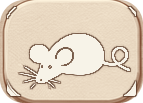
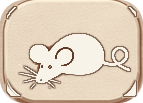
fix: distinguish beast dog and cat pieces

diff --git a/tests/ui.test.ts b/tests/ui.test.ts
@@ -255,7 +255,7 @@ test('settings keep music and effect switches and volumes independently on this 
   let wrapper = setup(t, false);
   await wrapper.findAll('button').find(b => b.text() === '设置')!.trigger('click');
   assert.equal(wrapper.get('#music-toggle').text(), '关闭');
-  assert.equal(wrapper.get('#effects-toggle').text(), '关闭');
+  assert.equal(wrapper.get('#effects-toggle').text(), '开启');
   assert.equal(wrapper.get('#music-preview').text(), '试听');
   assert.equal(wrapper.get('#music-theme').text(), '流觞曲水');
   assert.equal(wrapper.find('#music-playlist').exists(), false);
@@ -264,14 +264,14 @@ test('settings keep music and effect switches and volumes independently on this 
   await wrapper.get('#effects-volume').setValue('0.42');
   await wrapper.get('#music-volume').setValue('0.18');
   let saved = JSON.parse(localStorage.getItem('three-kingdoms-chess:audio-v1')!);
-  assert.equal(saved.effectsEnabled, true);
+  assert.equal(saved.effectsEnabled, false);
   assert.equal(saved.musicEnabled, false);
   assert.equal(saved.effectsVolume, 0.42);
   assert.equal(saved.musicVolume, 0.18);
   assert.equal(saved.musicPlaylistId, 'default');
   assert.equal(saved.musicTrackId, 'liushang-qushui');
   wrapper = remount(t, wrapper);
-  assert.equal(wrapper.get('#effects-toggle').text(), '开启');
+  assert.equal(wrapper.get('#effects-toggle').text(), '关闭');
   assert.equal(wrapper.get('#music-toggle').text(), '关闭');
   assert.equal((wrapper.get('#effects-volume').element as HTMLInputElement).value, '0.42');
   assert.equal(wrapper.get('#music-theme').text(), '流觞曲水');

diff --git a/tests/audio.test.ts b/tests/audio.test.ts
@@ -27,7 +27,12 @@ test('sound settings default to effects on, persist independent levels and rejec
     localStorage.setItem(AUDIO_SETTINGS_KEY, JSON.stringify({ musicPlaylistId: 'classical', musicTrackId: 'removed-song' }));
     assert.equal(loadAudioSettings().musicTrackId, 'liushang-qushui');
     localStorage.setItem(AUDIO_SETTINGS_KEY, JSON.stringify({ musicPlaylistId: 'guitar', musicTrackId: 'lebang-zhanshi-guitar' }));
-    assert.deepEqual(loadAudioSettings(), { ...DEFAULT_AUDIO_SETTINGS, musicEnabled: false, musicVolume: 0.35 });
+    assert.deepEqual(loadAudioSettings(), {
+      ...DEFAULT_AUDIO_SETTINGS,
+      musicEnabled: false,
+      musicVolume: 0.35,
+      effectsEnabled: false,
+    });
   } finally { GlobalRegistrator.unregister(); }
 });
 

diff --git a/tests/beast-chess-ui.test.ts b/tests/beast-chess-ui.test.ts
@@ -82,7 +82,7 @@ test('Beast Chess joins one table by seat, starts after both ready, moves in syn
   assert.equal(lower.findAll('.beast-cell')[0].attributes('data-coordinate'), 'A9');
   assert.match(upper.get('.beast-board-grid').attributes('aria-label') ?? '', /上方玩家视角/);
   assert.equal(upper.findAll('.beast-piece img').every(image =>
-    (image.attributes('src') ?? '').includes('?v=animal-colors-v3')), true);
+    (image.attributes('src') ?? '').includes('?v=animal-colors-v4')), true);
 
   const readyUpper = upper.findAll('button').find(button => button.text() === '准备');
   assert.ok(readyUpper);

diff --git a/src/components/BeastChessPiece.vue b/src/components/BeastChessPiece.vue
@@ -13,7 +13,7 @@ const props = defineProps<{
 
 const failed = ref(false);
 const imageSource = computed(() =>
-  `images/beast-chess/pieces/${props.piece.side}-${props.piece.kind}.png?v=animal-colors-v3`);
+  `images/beast-chess/pieces/${props.piece.side}-${props.piece.kind}.png?v=animal-colors-v4`);
 const label = computed(() => `${BEAST_SIDE_NAMES[props.piece.side]}${BEAST_KIND_NAMES[props.piece.kind]}`);
 </script>
 

diff --git a/scripts/prepare-beast-chess-assets.py b/scripts/prepare-beast-chess-assets.py
@@ -74,6 +74,8 @@ BASE_COLORS = {
     "upper": ("#36150b", "#edc982"),
 }
 
+ANIMAL_OUTLINE = "#4b2c1c"
+
 
 def cell_box(x: int, y: int) -> tuple[int, int, int, int]:
     image_row = 8 - y
@@ -107,17 +109,9 @@ def smoothstep(value: float, low: float, high: float) -> float:
     return progress * progress * (3 - 2 * progress)
 
 
-def colorize_animal(piece: Image.Image, side: str, kind: str) -> Image.Image:
-    """Tint the animal silhouette while preserving the supplied wooden base."""
+def animal_mask(piece: Image.Image, side: str) -> Image.Image:
     rgb = piece.convert("RGB")
     alpha = piece.getchannel("A")
-    grayscale = rgb.convert("L")
-    base_dark, base_light = BASE_COLORS[side]
-    base = ImageOps.colorize(grayscale, black=base_dark, white=base_light).convert("RGBA")
-    base.putalpha(alpha)
-    tinted = Image.new("RGBA", piece.size, KIND_COLORS[kind])
-    tinted.putalpha(alpha)
-
     width, height = piece.size
     inset_x = max(7, round(width * 0.05))
     inset_y = max(7, round(height * 0.07))
@@ -140,6 +134,110 @@ def colorize_animal(piece: Image.Image, side: str, kind: str) -> Image.Image:
                 weight = smoothstep(luminance, 145, 205)
             if weight:
                 mask_pixels[x, y] = round(weight * alpha_pixels[x, y])
+    return mask
+
+
+def colored_base(piece: Image.Image, side: str, mask: Image.Image) -> Image.Image:
+    """Remove the source animal and rebuild the piece's side-specific base."""
+    source = piece.copy()
+    replacement = source.filter(ImageFilter.MedianFilter(31))
+    source.paste(replacement, mask=mask.filter(ImageFilter.MaxFilter(5)))
+    alpha = source.getchannel("A")
+    grayscale = source.convert("L")
+    base_dark, base_light = BASE_COLORS[side]
+    base = ImageOps.colorize(grayscale, black=base_dark, white=base_light).convert("RGBA")
+    base.putalpha(alpha)
+    return base
+
+
+def draw_dog_icon(size: tuple[int, int], color: str) -> Image.Image:
+    scale = 4
+    canvas = Image.new("RGBA", (size[0] * scale, size[1] * scale), (0, 0, 0, 0))
+    draw = ImageDraw.Draw(canvas)
+    width = 2 * scale
+
+    def point(x: float, y: float) -> tuple[int, int]:
+        return round(x * scale), round(y * scale)
+
+    def box(left: float, top: float, right: float, bottom: float) -> tuple[int, int, int, int]:
+        return round(left * scale), round(top * scale), round(right * scale), round(bottom * scale)
+
+    def line(points: list[tuple[float, float]], fill: str, stroke: int) -> None:
+        pixels = [point(x, y) for x, y in points]
+        draw.line(pixels, fill=ANIMAL_OUTLINE, width=(stroke + 4) * scale, joint="curve")
+        draw.line(pixels, fill=fill, width=stroke * scale, joint="curve")
+
+    # Upturned tail, rounded body, floppy ear and short muzzle distinguish a dog.
+    line([(108, 49), (121, 43), (128, 30), (125, 20)], color, 7)
+    draw.ellipse(box(35, 37, 115, 72), fill=color, outline=ANIMAL_OUTLINE, width=width)
+    draw.ellipse(box(29, 26, 48, 55), fill=color, outline=ANIMAL_OUTLINE, width=width)
+    draw.ellipse(box(14, 28, 55, 65), fill=color, outline=ANIMAL_OUTLINE, width=width)
+    draw.ellipse(box(7, 46, 31, 61), fill=color, outline=ANIMAL_OUTLINE, width=width)
+    draw.arc(box(25, 40, 51, 70), 72, 142, fill=ANIMAL_OUTLINE, width=width)
+    draw.arc(box(34, 52, 58, 69), 20, 125, fill=ANIMAL_OUTLINE, width=width)
+    for left, right in ((39, 49), (55, 65), (91, 101), (104, 114)):
+        draw.rounded_rectangle(box(left, 62, right, 88), radius=4 * scale, fill=color,
+                               outline=ANIMAL_OUTLINE, width=width)
+        draw.ellipse(box(left - 1, 84, right + 2, 91), fill=color, outline=ANIMAL_OUTLINE, width=width)
+    draw.ellipse(box(27, 42, 32, 47), fill=ANIMAL_OUTLINE)
+    draw.ellipse(box(8, 51, 14, 57), fill=ANIMAL_OUTLINE)
+    draw.arc(box(8, 53, 24, 66), 30, 145, fill=ANIMAL_OUTLINE, width=width)
+    return canvas.resize(size, Image.Resampling.LANCZOS)
+
+
+def draw_cat_icon(size: tuple[int, int], color: str) -> Image.Image:
+    scale = 4
+    canvas = Image.new("RGBA", (size[0] * scale, size[1] * scale), (0, 0, 0, 0))
+    draw = ImageDraw.Draw(canvas)
+    width = 2 * scale
+
+    def point(x: float, y: float) -> tuple[int, int]:
+        return round(x * scale), round(y * scale)
+
+    def box(left: float, top: float, right: float, bottom: float) -> tuple[int, int, int, int]:
+        return round(left * scale), round(top * scale), round(right * scale), round(bottom * scale)
+
+    def line(points: list[tuple[float, float]], fill: str, stroke: int) -> None:
+        pixels = [point(x, y) for x, y in points]
+        draw.line(pixels, fill=ANIMAL_OUTLINE, width=(stroke + 3) * scale, joint="curve")
+        draw.line(pixels, fill=fill, width=stroke * scale, joint="curve")
+
+    # Upright sitting body, pointed ears, muzzle and curled tail read as a cat.
+    line([(92, 78), (115, 78), (127, 60), (123, 40), (115, 31)], color, 7)
+    draw.ellipse(box(47, 48, 99, 91), fill=color, outline=ANIMAL_OUTLINE, width=width)
+    draw.ellipse(box(49, 19, 97, 62), fill=color, outline=ANIMAL_OUTLINE, width=width)
+    draw.polygon([point(52, 29), point(55, 9), point(68, 24)], fill=color, outline=ANIMAL_OUTLINE)
+    draw.polygon([point(78, 23), point(90, 9), point(94, 30)], fill=color, outline=ANIMAL_OUTLINE)
+    draw.ellipse(box(49, 79, 69, 94), fill=color, outline=ANIMAL_OUTLINE, width=width)
+    draw.ellipse(box(76, 79, 96, 94), fill=color, outline=ANIMAL_OUTLINE, width=width)
+    draw.arc(box(59, 47, 87, 66), 12, 168, fill=ANIMAL_OUTLINE, width=width)
+    draw.polygon([point(69, 51), point(78, 51), point(73.5, 57)], fill=ANIMAL_OUTLINE)
+    draw.line([point(73.5, 57), point(68, 61)], fill=ANIMAL_OUTLINE, width=width)
+    draw.line([point(73.5, 57), point(79, 61)], fill=ANIMAL_OUTLINE, width=width)
+    for eye_x in (63, 84):
+        draw.ellipse(box(eye_x - 1.8, 39, eye_x + 1.8, 47), fill=ANIMAL_OUTLINE)
+    for side in (-1, 1):
+        for offset in (-5, 1, 7):
+            draw.line(
+                [point(73.5 + side * 12, 57 + offset * 0.35), point(73.5 + side * 34, 57 + offset)],
+                fill=ANIMAL_OUTLINE,
+                width=scale,
+            )
+    return canvas.resize(size, Image.Resampling.LANCZOS)
+
+
+def colorize_animal(piece: Image.Image, side: str, kind: str) -> Image.Image:
+    """Tint or replace the animal while preserving the supplied wooden base."""
+    mask = animal_mask(piece, side)
+    base = colored_base(piece, side, mask)
+
+    if kind in {"dog", "cat"}:
+        icon = (draw_dog_icon(piece.size, KIND_COLORS[kind]) if kind == "dog"
+                else draw_cat_icon(piece.size, KIND_COLORS[kind]))
+        return Image.alpha_composite(base, icon)
+
+    tinted = Image.new("RGBA", piece.size, KIND_COLORS[kind])
+    tinted.putalpha(piece.getchannel("A"))
 
     outline = ImageChops.subtract(mask.filter(ImageFilter.MaxFilter(3)), mask)
     outline = outline.filter(ImageFilter.GaussianBlur(0.45))

diff --git a/README.md b/README.md
@@ -80,7 +80,7 @@ $env:Path="$env:JAVA_HOME\bin;$env:Path"
 - 五兵联盟复用木色棋盘、圆形棋子、权威落子、上一手、棋谱、翻转、认输、退出和同房间再来一局；已开局的新访客可查看服务端实际盘面但不能走棋或重开。离开页面、关闭页面或连接断开时继续按现有策略释放席位。
 - 马棋是独立双人单棋桌玩法：双方各九马，红方先行，马走日且受马腿阻挡，先踏入对方中央底线帅位的一方获胜。棋桌选座、中央开始/邀请、左侧对局菜单、访客旁观、终局和同房间再来一局均与五兵联盟、中国象棋保持一致。
 - 中国象棋为第三个独立双人单棋桌玩法：先在棋桌选择红方或黑方，入座后显示经典 32 子棋盘。规则包含九宫、马腿、象眼、炮架、过河兵、将帅照面、不得送将、将死与困毙判负。前三种联机棋桌玩法均支持双方同意和棋。
-- 斗兽棋为第四种联机双人玩法：沿用单棋桌模式，点击下方或上方空席位并入座，双方准备后开局。使用用户提供的木质 7×9 原图棋盘及原图中的 16 枚彩色棋子；支持鼠入河、狮虎跳河、陷阱降级、兽穴与困毙胜、三次重复及 100 半回合和棋。上方玩家自动获得本方子力在下方的翻转视角，非当前回合不会变暗；服务端确认新走棋后播放与三国象棋一致的落子/吃子音效。页面左上固定显示提和、认输、退出，访客可点击进行中棋桌观战；结束后保留双方席位并可在原桌再来一局。
+- 斗兽棋为第四种联机双人玩法：沿用单棋桌模式，点击下方或上方空席位并入座，双方准备后开局。使用用户提供的木质 7×9 原图棋盘，棋子按棋种统一着色，其中狗改为垂耳、短口鼻犬类侧影，猫改为尖耳、胡须的正面坐姿；支持鼠入河、狮虎跳河、陷阱降级、兽穴与困毙胜、三次重复及 100 半回合和棋。上方玩家自动获得本方子力在下方的翻转视角，非当前回合不会变暗；服务端确认新走棋后播放与三国象棋一致的落子/吃子音效。页面左上固定显示提和、认输、退出，访客可点击进行中棋桌观战；结束后保留双方席位并可在原桌再来一局。
 - 三国象棋主玩法改为同一棋盘内等待：创建或加入房间立即显示完整 29 子棋盘，三名玩家通过左侧头像选择魏、蜀、吴，在棋盘中央的等待层执行“开始/取消开始”和复制邀请链接；三人到齐并全部开始后，等待层消失，同一页面进入正式对局，不跳转独立等待页。
 - 公开对战大厅采用棋社式 10 桌视图：第 1 桌是无需创建、始终可加入的“公开房间”，其余 9 桌由玩家点击空桌创建；每桌按曹操、房间号/状态、刘备、孙权四栏展示。
 - 三个阵营席位均可点击，弹框只要求可选的“昵称：”；加入已有房间时直接坐到所点阵营，空桌则同时输入 6 位房间号后创建并入座。
